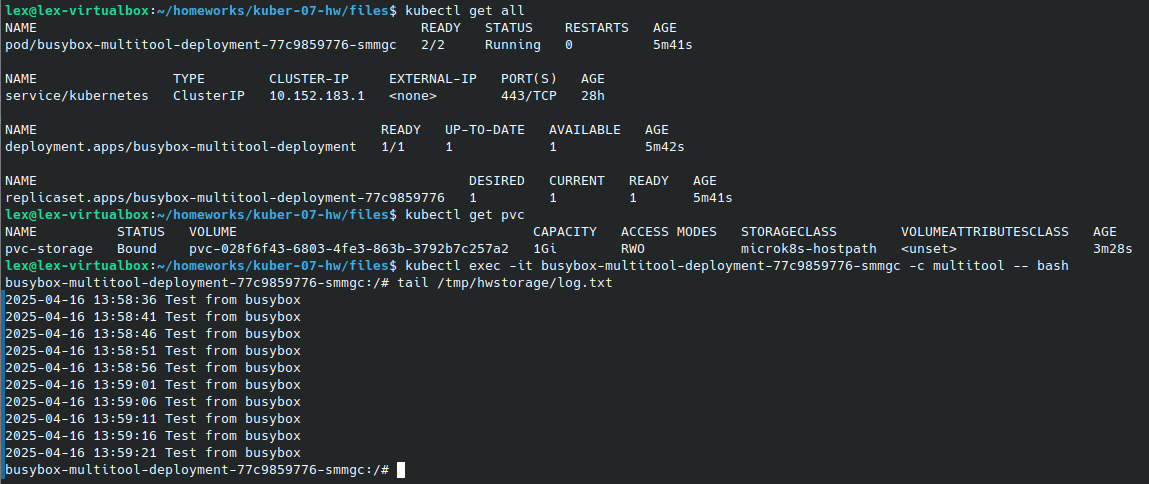
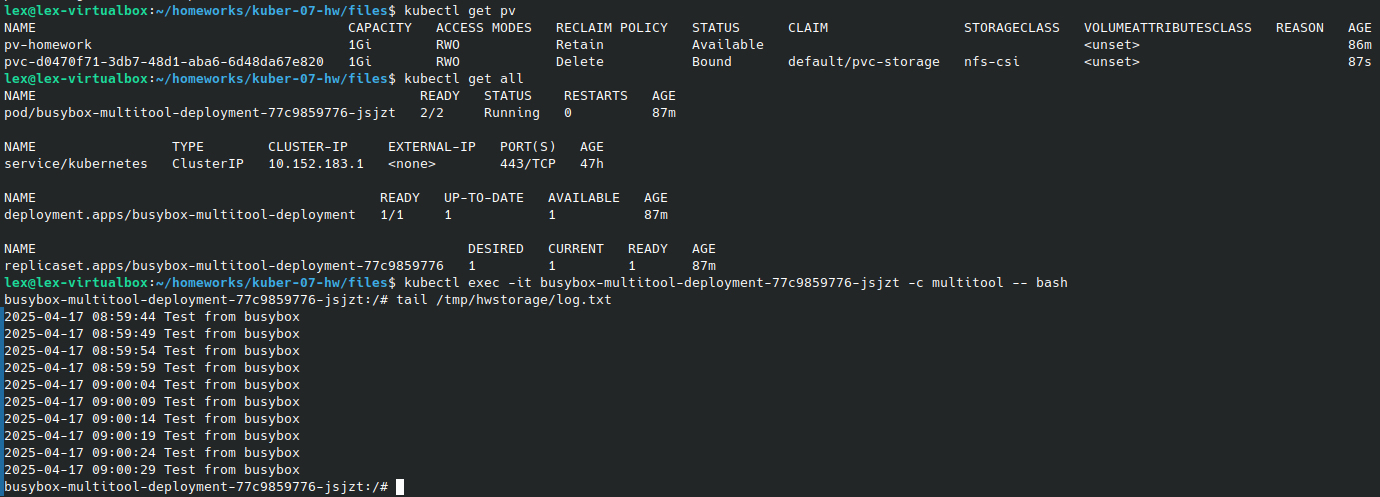
Исправленное ДЗ

diff --git a/README.md b/README.md
@@ -133,7 +133,27 @@ spec:
 
 ## Ответ:
 
-[Манифест pvc-nfc](https://github.com/Lex-Chaos/kuber-07-hw/blob/main/files/pvc-homework-nfc.yml):
+Установил согласно инструкции NFC на microk8s.
+
+[Создал storageClass](https://github.com/Lex-Chaos/kuber-07-hw/blob/main/files/sc-nfc.yml):
+
+```yml
+apiVersion: storage.k8s.io/v1
+kind: StorageClass
+metadata:
+  name: nfs-csi
+provisioner: nfs.csi.k8s.io
+parameters:
+  server: 192.168.203.50
+  share: /srv/nfs
+reclaimPolicy: Delete
+volumeBindingMode: Immediate
+mountOptions:
+  - hard
+  - nfsvers=4.2
+```
+
+[Манифест pvc](https://github.com/Lex-Chaos/kuber-07-hw/blob/main/files/pvc-homework-nfc.yml):
 
 ```yml
 apiVersion: v1
@@ -142,7 +162,7 @@ metadata:
   name: pvc-storage ##
   namespace: default ##
 spec:
-  storageClassName: "microk8s-hostpath"
+  storageClassName: nfs-csi
   volumeMode: Filesystem 
   accessModes: ###
   - ReadWriteOnce ###
@@ -152,10 +172,6 @@ spec:
 ```
 
 Деплоймент оставил из прошлого задания.
-
-Включил hostpath-storage:
-
-![hostpath-storage](https://github.com/Lex-Chaos/kuber-07-hw/blob/main/img/Task2-1.png)
 
 Запись-чтение файла:
 
